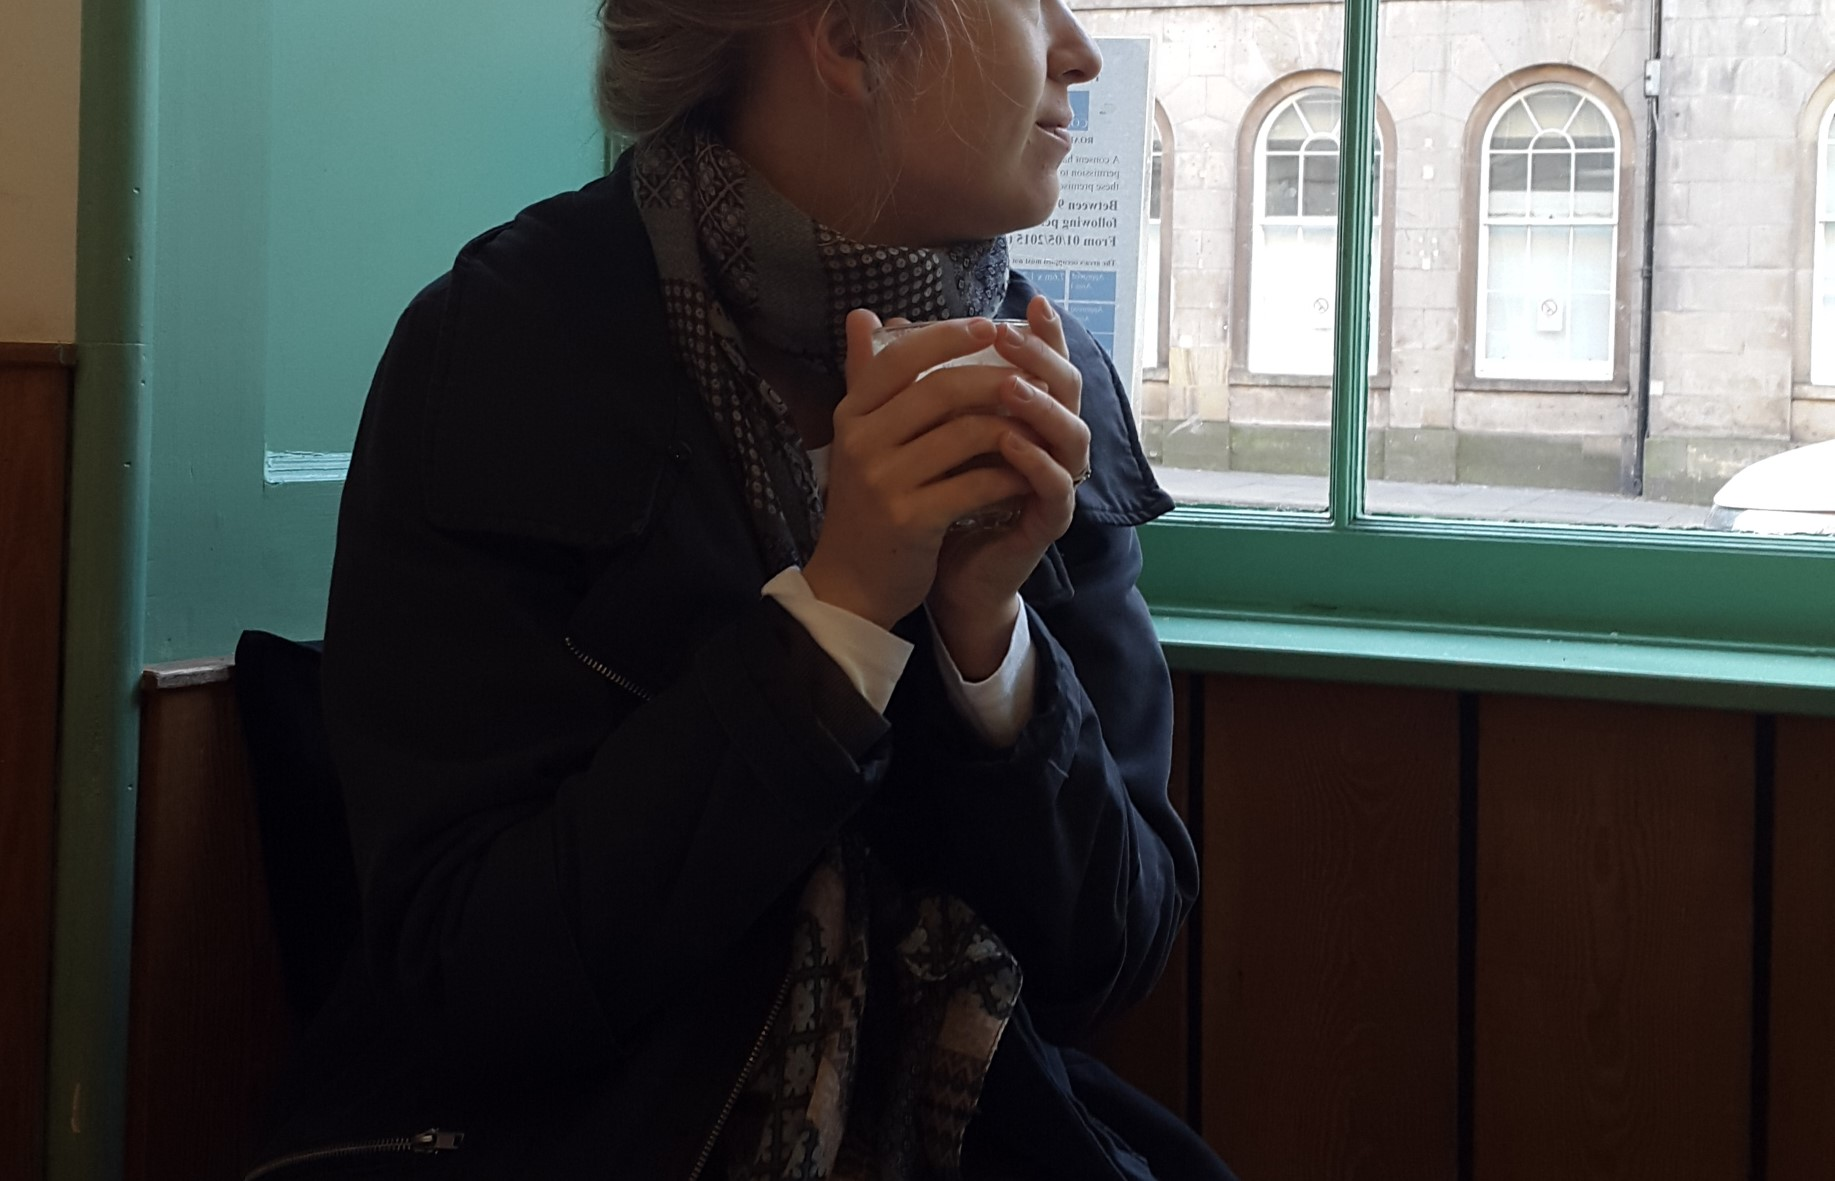
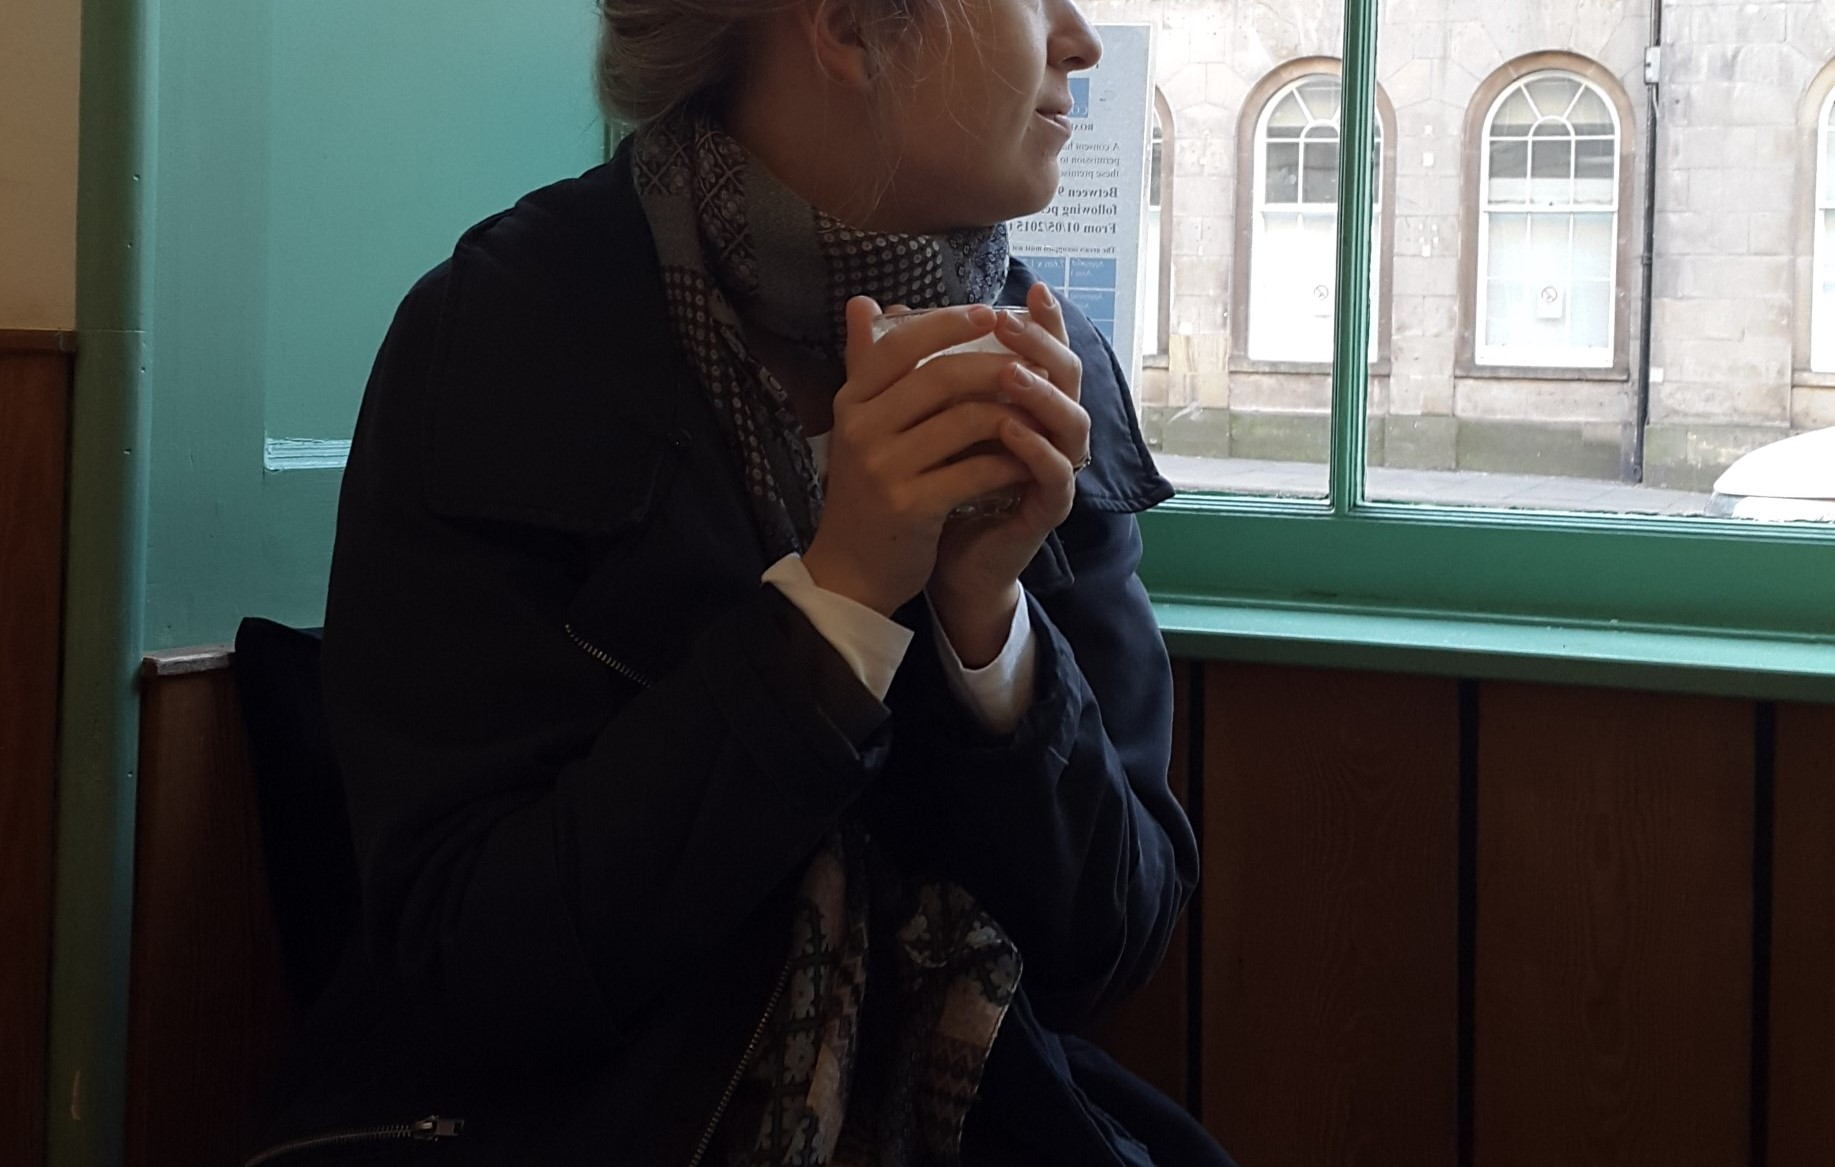
images

diff --git a/css/style.css b/css/style.css
@@ -57,7 +57,7 @@ a {
 	letter-spacing: 0.05em;
 }
 #mainpic {
-	width: 25.8%;
+	width: 25.4%;
 	height: 100%;
 	overflow: hidden;
 	float: left;
@@ -67,7 +67,7 @@ a {
 	height: 100%;
 }
 #panel {
-	width: 26%;
+	width: 25.4%;
 	height: 100%;
 	background: rgb(150,150,130);
 	float: left;
@@ -76,7 +76,7 @@ a {
 #rightpanel {
 	background: rgb(210,210,185);
 	height: 100%;
-	width: 18.2%;
+	width: 19%;
 	float: left;
 }
 #navigationnew {
@@ -107,7 +107,7 @@ a:hover {
 #mainpost {
 	font-family: helvetica;
 	margin-top: 20px;	
-	width: 61%;
+	width: 62%;
 	float: left;
 	text-align: left;
 	margin-left: 19%;
@@ -185,7 +185,7 @@ figcaption {
 #aboutparagraph {
 	font-family: helvetica;
 	margin-top: 10px;
-	width: 61%;
+	width: 62%;
 	float: left;
 	text-align: left;
 	margin-left: 19%;

diff --git a/Balenciaga post.html b/Balenciaga post.html
@@ -14,7 +14,7 @@
 				<p id="summaryheading">writing about art, books and life<br>looking twice<br>delighting in discovery</p>
 			</div>
 			<div id="mainpic">
-				<img src="images/IMG_1775.jpg" type="jpg"></img>
+				<img src="images/IMG_2909ed7.jpg" type="jpg"></img>
 			</div>
 			
 		</div>

diff --git a/Conversations with Friends post.html b/Conversations with Friends post.html
@@ -14,7 +14,7 @@
 				<p id="summaryheading">writing about art, books and life<br>looking twice<br>delighting in discovery</p>
 			</div>
 			<div id="mainpic">
-				<img src="images/IMG_1775.jpg" type="jpg"></img>
+				<img src="images/IMG_2909ed7.jpg" type="jpg"></img>
 			</div>
 			
 		</div>

diff --git a/Forest Dark post.html b/Forest Dark post.html
@@ -14,7 +14,7 @@
 				<p id="summaryheading">writing about art, books and life<br>looking twice<br>delighting in discovery</p>
 			</div>
 			<div id="mainpic">
-				<img src="images/IMG_1775.jpg" type="jpg"></img>
+				<img src="images/IMG_2909ed7.jpg" type="jpg"></img>
 			</div>
 			
 		</div>

diff --git a/London Library post.html b/London Library post.html
@@ -14,7 +14,7 @@
 				<p id="summaryheading">writing about art, books and life<br>looking twice<br>delighting in discovery</p>
 			</div>
 			<div id="mainpic">
-				<img src="images/IMG_1775.jpg" type="jpg"></img>
+				<img src="images/IMG_2909ed7.jpg" type="jpg"></img>
 			</div>
 			
 		</div>

diff --git a/Morandi de Waal post.html b/Morandi de Waal post.html
@@ -14,7 +14,7 @@
 				<p id="summaryheading">writing about art, books and life<br>looking twice<br>delighting in discovery</p>
 			</div>
 			<div id="mainpic">
-				<img src="images/IMG_1775.jpg" type="jpg"></img>
+				<img src="images/IMG_2909ed7.jpg" type="jpg"></img>
 			</div>
 			
 		</div>

diff --git a/Opera at VA post.html b/Opera at VA post.html
@@ -14,7 +14,7 @@
 				<p id="summaryheading">writing about art, books and life<br>looking twice<br>delighting in discovery</p>
 			</div>
 			<div id="mainpic">
-				<img src="images/IMG_1775.jpg" type="jpg"></img>
+				<img src="images/IMG_2909ed7.jpg" type="jpg"></img>
 			</div>
 			
 		</div>

diff --git a/Vermeer post.html b/Vermeer post.html
@@ -14,7 +14,7 @@
 				<p id="summaryheading">writing about art, books and life<br>looking twice<br>delighting in discovery</p>
 			</div>
 			<div id="mainpic">
-				<img src="images/IMG_1775.jpg" type="jpg"></img>
+				<img src="images/IMG_2909ed7.jpg" type="jpg"></img>
 			</div>
 			
 		</div>
